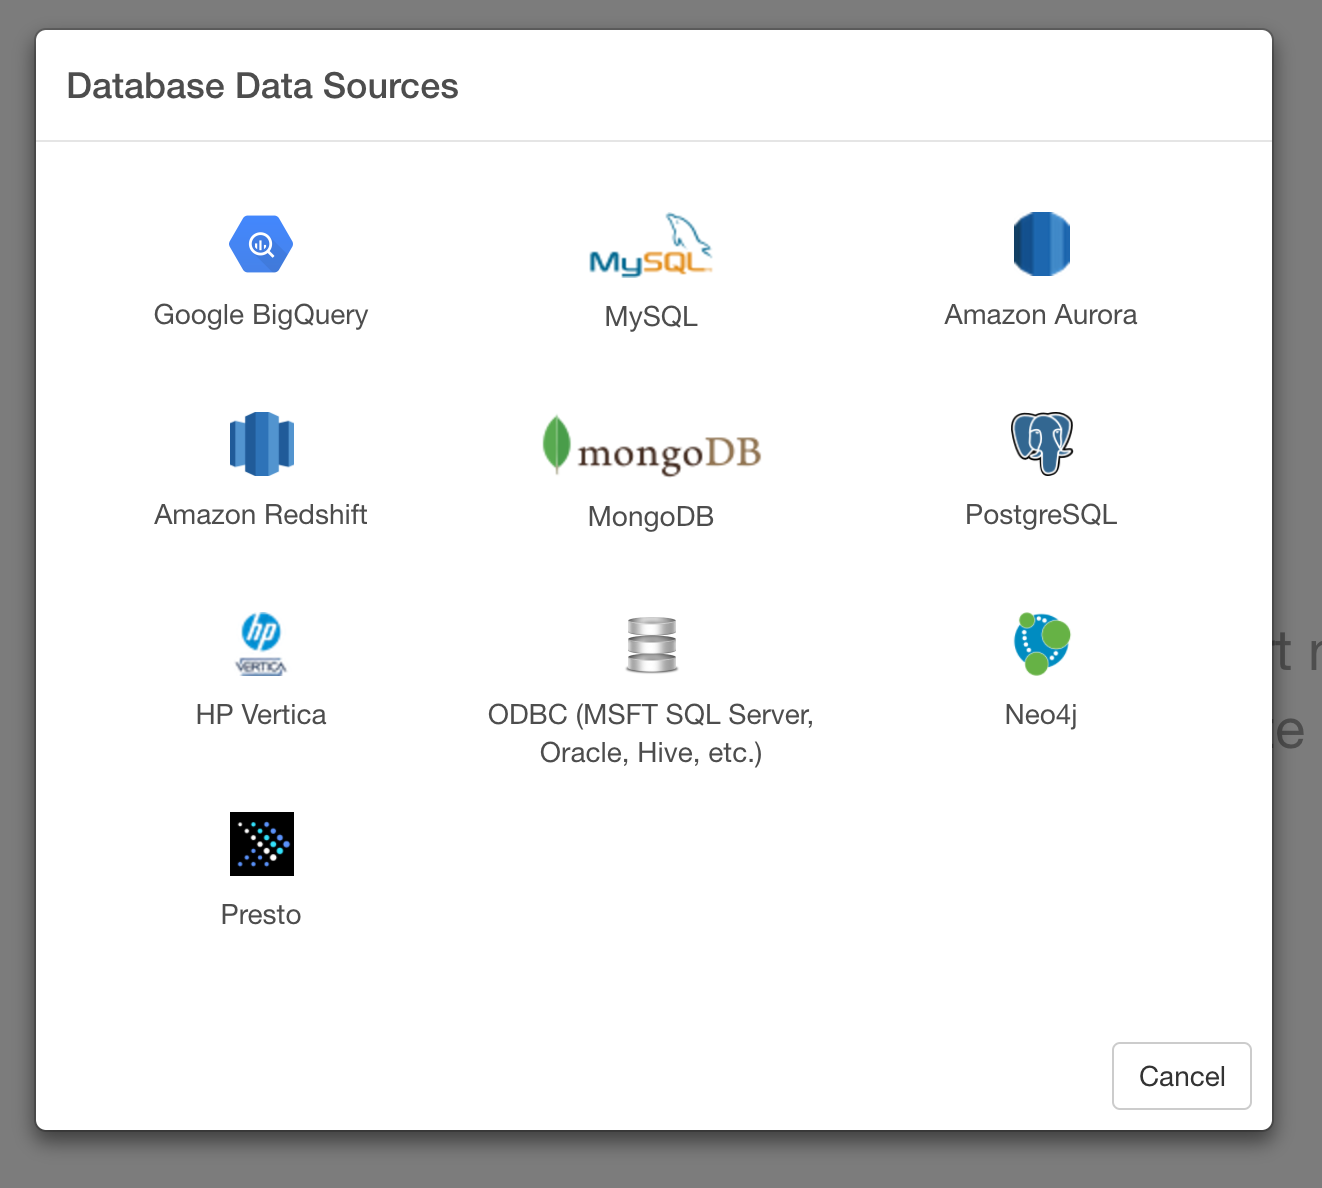
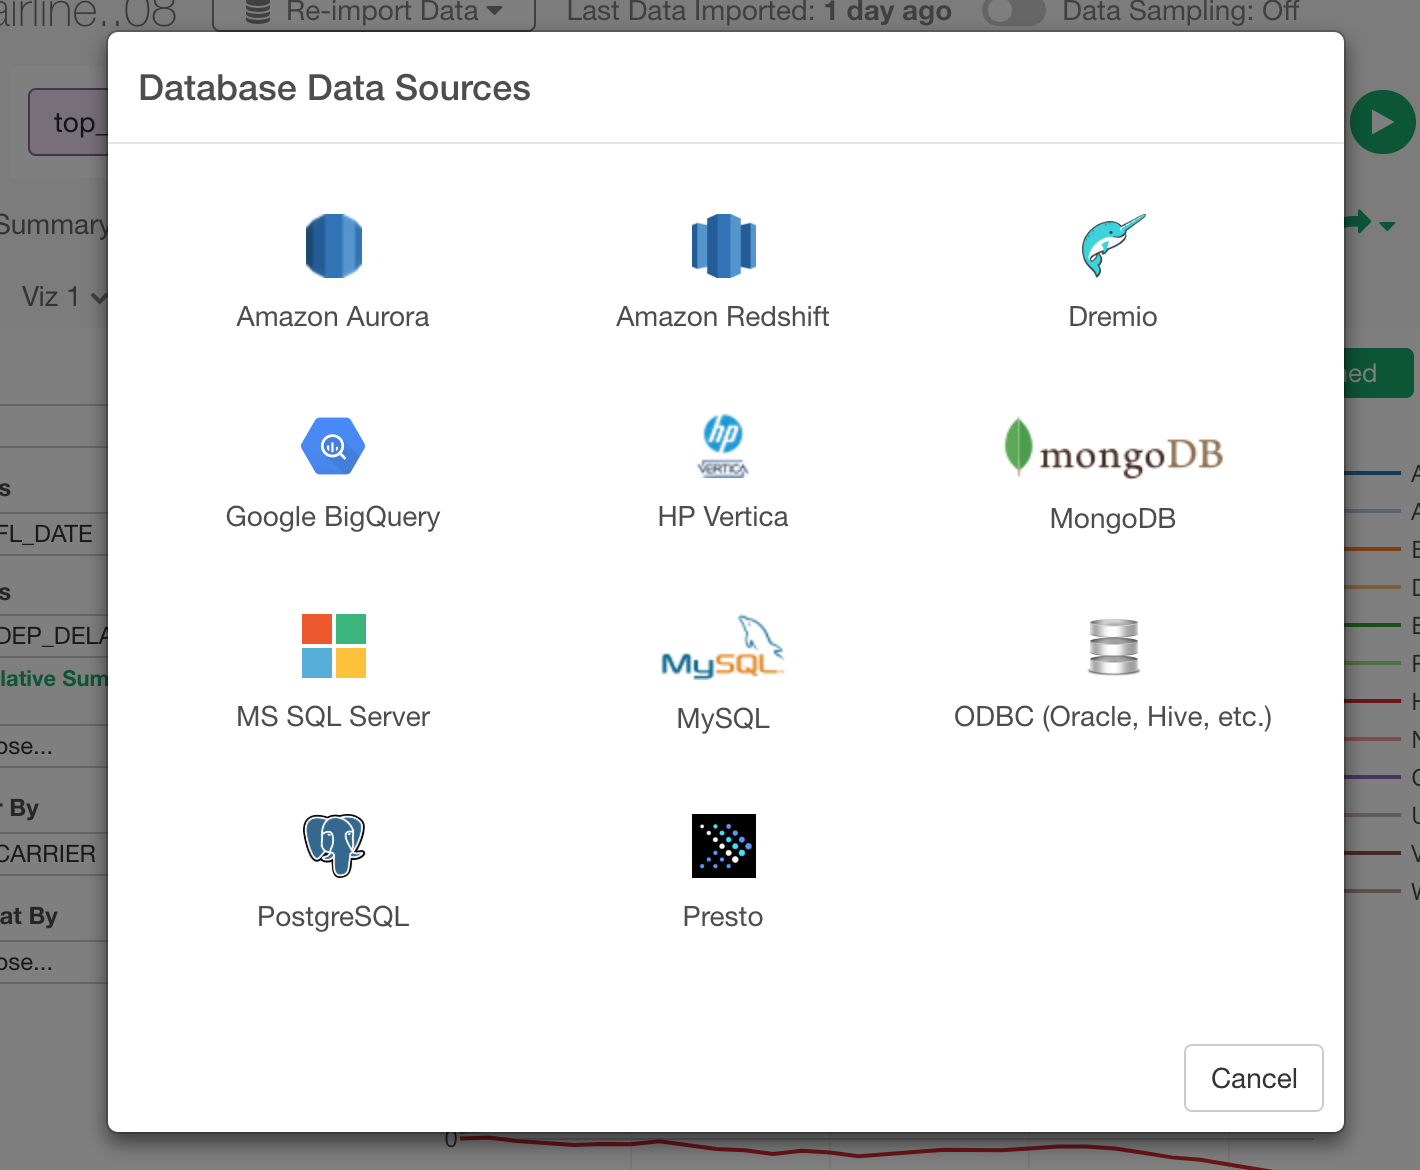
BigQuery with new UI.

diff --git a/import/google-bigquery.md b/import/google-bigquery.md
@@ -40,7 +40,7 @@ To use Google BigQuery with Exploratory Desktop, you need to create a project on
 
 - Click 'Google BigQuery'
 
-![](images/import-db-sources.png)
+![](images/import-db-sources-big-query.png)
 
 ## 3. Authentication with Google OAuth
 
@@ -63,25 +63,6 @@ Select an account you want to use for your Google BigQuery and click 'Allow' but
 - Click Run button to preview data.
 
 ![](images/google-big-query-preview.png)
-
-### 4.2 Save query result as a new table on Google BigQuery
-
-If your query is against huge table, it’s probably a good idea to create a a new table containing just the data you want to use for further analysis to minimize the cost. To do this, after getting preview data click Save As Table button.
-
-![](images/google-big-query-saveas-dialog.png)
-
-- Select Project from pulldown menu
-- Select Dataset from pulldown menu
-- Type new table name
-- Click Save button
-
-Exploratory Desktop checks list of tables after you saved a table and once check is done, you can see newly created table on the tree
-
-![](images/google-big-query-tree-refresh-after.png)
-
-Once new table is created, you can query against the table.
-
-![](images/google-big-query-after-saveas.png)
 
 
 ## 5. Standard SQL
